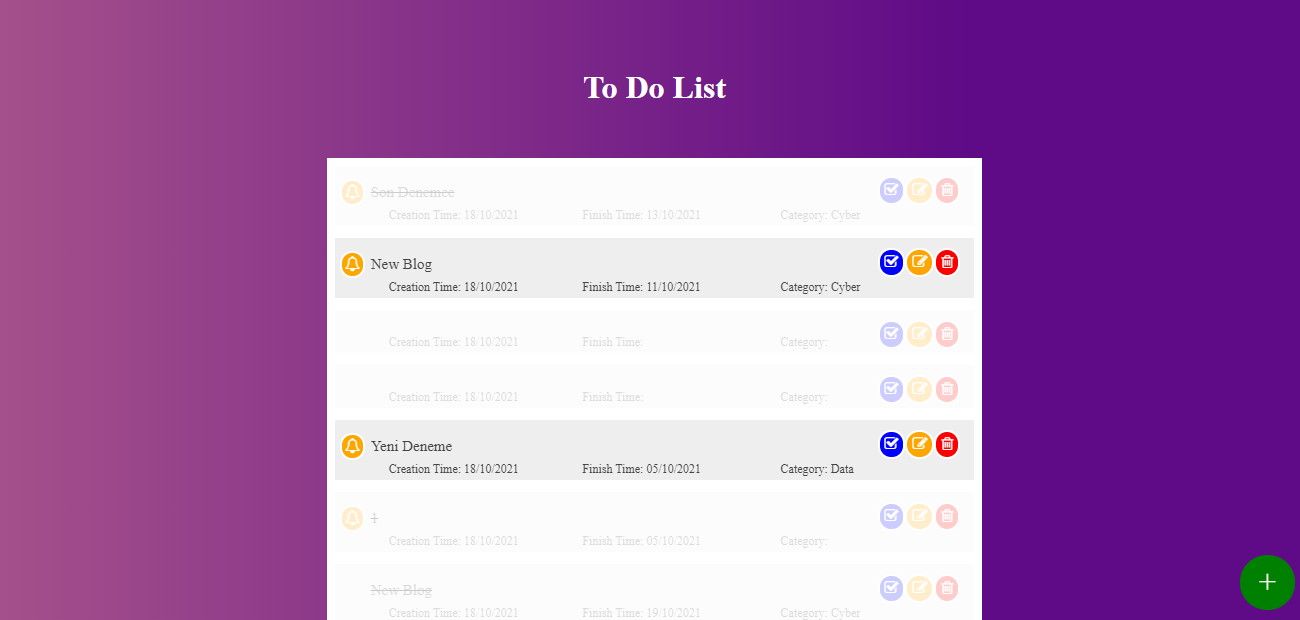
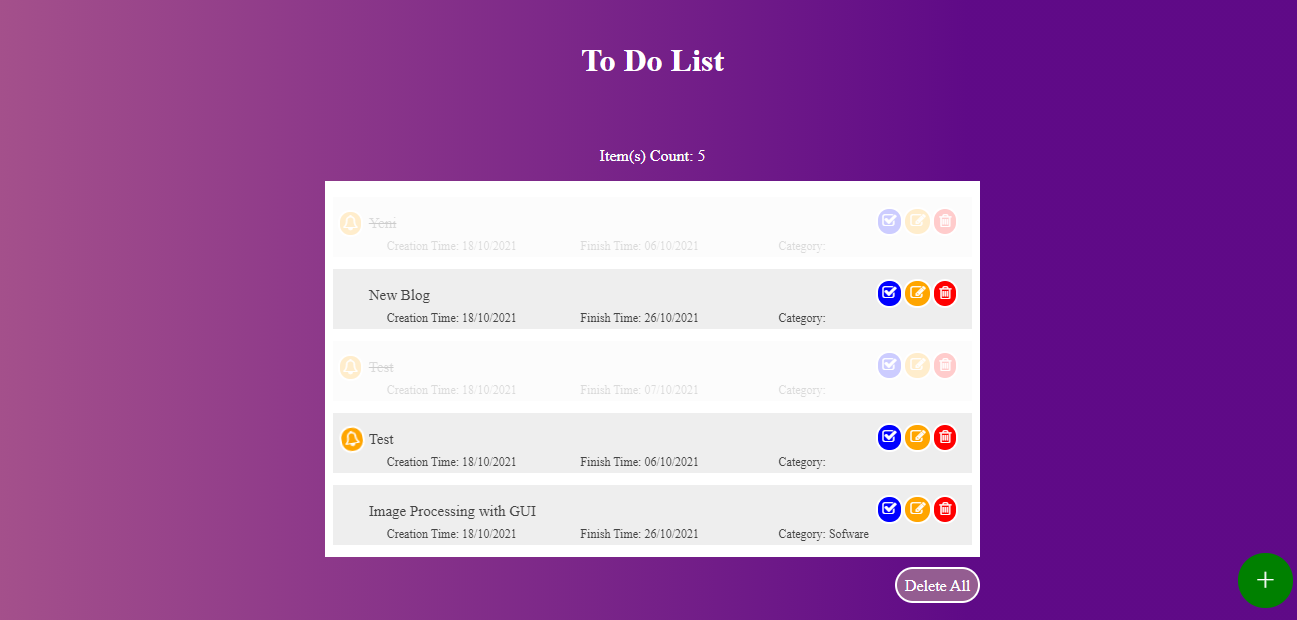
Delete All Items

diff --git a/Homework-1/js/style.js b/Homework-1/js/style.js
@@ -1,4 +1,26 @@
 let updateIndex;
+// Delete All Items Functions
+document.querySelector('.deleteAll').addEventListener('click',function(){
+  Object.keys(localStorage).forEach(function(i){
+  localStorage.removeItem(i);
+  });
+  const gridElem = document.getElementsByClassName("grid-element");
+  for(let i = 0; i<gridElem.length;i++)
+  {
+    gridElem[i].style.display='none';
+  }
+  
+
+  const element = document.createElement('div');
+    element.className = 'grid-element';
+  element.innerHTML='<p class="remove-this">There is no record to show </p>';
+  gridContainer.appendChild(element);
+  setTimeout(function() {
+    element.className = element.className + " show";
+  }, 10);
+  itemsCount.innerHTML="Item(s) Count: "+localStorage.length;
+});
+
 //Add Button Functions
 document.querySelector('.addButton').addEventListener('click',function(){
   
@@ -69,8 +91,9 @@ document.querySelector('#saveButton').addEventListener('click',function(){
     checkButton.innerHTML=' <i class="fa fa-check-square-o" aria-hidden="true"></i>';
     editButton.innerHTML='<i class="fa fa-pencil-square-o" aria-hidden="true">';
     deleteButton.innerHTML='<i class="fa fa-trash-o" aria-hidden="true">';
-checkButton.addEventListener('click',function(){
-let index=keyNumber.toString();
+ //check Item Buttons
+  checkButton.addEventListener('click',function(){
+  let index=keyNumber.toString();
   todoItem=JSON.parse(localStorage.getItem(index));
   let ischecked=todoItem.delete;
   if(ischecked===false)
@@ -96,7 +119,7 @@ let index=keyNumber.toString();
   }, 0.1);
  
 });
-
+ //edit Item Buttons
 editButton.addEventListener('click',function(){
   let index=keyNumber.toString();
   document.querySelector('.bg-modal').style.display='flex';
@@ -110,6 +133,7 @@ editButton.addEventListener('click',function(){
   updateIndex=index;
    
   });
+  //delete Item Buttons
   deleteButton.addEventListener('click',function(){
     let index=keyNumber.toString();
     localStorage.removeItem(index);
@@ -121,6 +145,7 @@ editButton.addEventListener('click',function(){
         element.style.display="none";
       }, 0.0001);
     }, 600);
+    itemsCount.innerHTML="Item(s) Count: "+localStorage.length;
     });
 panelButtonsDiv.appendChild(checkButton);
 panelButtonsDiv.appendChild(editButton);
@@ -148,6 +173,7 @@ const todo = {
 }
 localStorage.setItem(keyNumber, JSON.stringify(todo));
 clearItems();
+itemsCount.innerHTML="Item(s) Count: "+localStorage.length;
 }
 });
 

diff --git a/Homework-1/js/index.js b/Homework-1/js/index.js
@@ -3,7 +3,7 @@ let category = document.querySelector("#category");
 let createDate = document.querySelector("#createDate");
 let finishDate = document.querySelector("#finishDate");
 let gridContainer = document.querySelector(".grid-container");
-
+let itemsCount = document.querySelector(".itemsCount");
 var something = (function() {
   var executed = false;
   return function() {
@@ -74,6 +74,8 @@ something();
   checkButton.innerHTML=' <i class="fa fa-check-square-o" aria-hidden="true"></i>';
   editButton.innerHTML='<i class="fa fa-pencil-square-o" aria-hidden="true">';
   deleteButton.innerHTML='<i class="fa fa-trash-o" aria-hidden="true">';
+
+//check Item Buttons
 checkButton.addEventListener('click',function(){
 let index=i.toString();
 todoItem=JSON.parse(localStorage.getItem(index));
@@ -101,7 +103,7 @@ setTimeout(function() {
 }, 0.1);
 
 });
-
+ //edit Item Buttons
 editButton.addEventListener('click',function(){
 let index=i.toString();
 document.querySelector('.bg-modal').style.display='flex';
@@ -115,6 +117,7 @@ createDate.value=todoItem.createDate;
 updateIndex=index;
  
 });
+ //delete Item Buttons
 deleteButton.addEventListener('click',function(){
   let index=i.toString();
   localStorage.removeItem(index);
@@ -126,6 +129,7 @@ deleteButton.addEventListener('click',function(){
       element.style.display="none";
     }, 0.0001);
   }, 600);
+  itemsCount.innerHTML="Item(s) Count: "+localStorage.length;
   });
 panelButtonsDiv.appendChild(checkButton);
 panelButtonsDiv.appendChild(editButton);
@@ -145,6 +149,7 @@ setTimeout(function() {
   element.className = element.className + " show";
 }, 10);
 });
+itemsCount.innerHTML="Item(s) Count: "+localStorage.length;
 }
 
 

diff --git a/Homework-1/css/styles.css b/Homework-1/css/styles.css
@@ -13,6 +13,11 @@ body{
   width: 50%;
   margin: auto;
 }
+.itemsCount{
+ 
+  float: left;
+  color: white;
+}
 .addButton{
   width: 35px;
   height: 35px;
@@ -99,6 +104,27 @@ h1{
   background-color: white;
 	color: red;
 	border: 2px solid red;
+  cursor: pointer;
+}
+.deleteAll {
+  
+	background-color: rgb(148, 93, 145);
+	border: 2px solid white;
+	border-radius: 30px;
+	text-decoration: none;
+  height: 16px;
+	padding: 8px 8px;
+	color: white;
+	display: inline-block;
+  margin-bottom: 0px;
+  margin-top:10px ;
+  margin-left: auto;
+  margin-bottom:20px ;
+}
+.deleteAll:hover {
+  background-color: white;
+	color: rgb(148, 93, 145);
+	border: 2px solid rgb(148, 93, 145);
   cursor: pointer;
 }
   /* </Pop Up Form > */

diff --git a/Homework-1/index.html b/Homework-1/index.html
@@ -39,11 +39,21 @@
         <h1> To Do List </h1>
     </div>
     <div id="container">
+        <p class="itemsCount"> Item(s): </p>
+       
+      
+    </div>
+    <div id="container">
         <div class="grid-container">
 
         
     </div>
     </div>
+    <div id="container">
+       
+        <a  class="deleteAll"> Delete All
+        </a>
+ 
     <div class="bg-modal">
         <div class="modal-content">
             <div class="close">+</div>

diff --git a/Homework-1/README.md b/Homework-1/README.md
@@ -8,6 +8,9 @@ HTML,CSS ve JavaScript  kullanılarak hazırlanan bir todo app uygulamasıdır
 * Tarih karşılaştırmaları kullanarak günü gelen veya geçmiş olan görevlerin alarmla kullanıcıya bildirilmesi sağlanmıştır.
 * Local Storage kullanılarak verilerin kaydedilmesi sağlanmıştır.
 * Websitesi responsive hale getirilmiştir.
+* Başlık veya Tarihin boş değer olup olmadığının kontrolü sağlanmıştır.
+* Kayıtlı veri yoksa kullanıcıyı bilgilendirme sağlanmıştır.
+* Tümünü Sil Butonu ve Toplam Kayıt Sayısı kullanıcıya sunulmuştur.
 ## Kullanılan Teknolojiler
 * 1-) HTML
 * 2-) CSS
@@ -22,6 +25,8 @@ HTML,CSS ve JavaScript  kullanılarak hazırlanan bir todo app uygulamasıdır
 ![logo](/img/TodoApp/2.png)
 * Görevi Güncelleme
 ![logo](/img/TodoApp/3.png)
+* Tümünü Sil
+![logo](/img/TodoApp/4.png)
 ### Github Linki:
 https://github.com/ugurilgin/Patika.dev/tree/main/InveonFullStack/1-Todo%20App
 ## Hazırlayanlar
